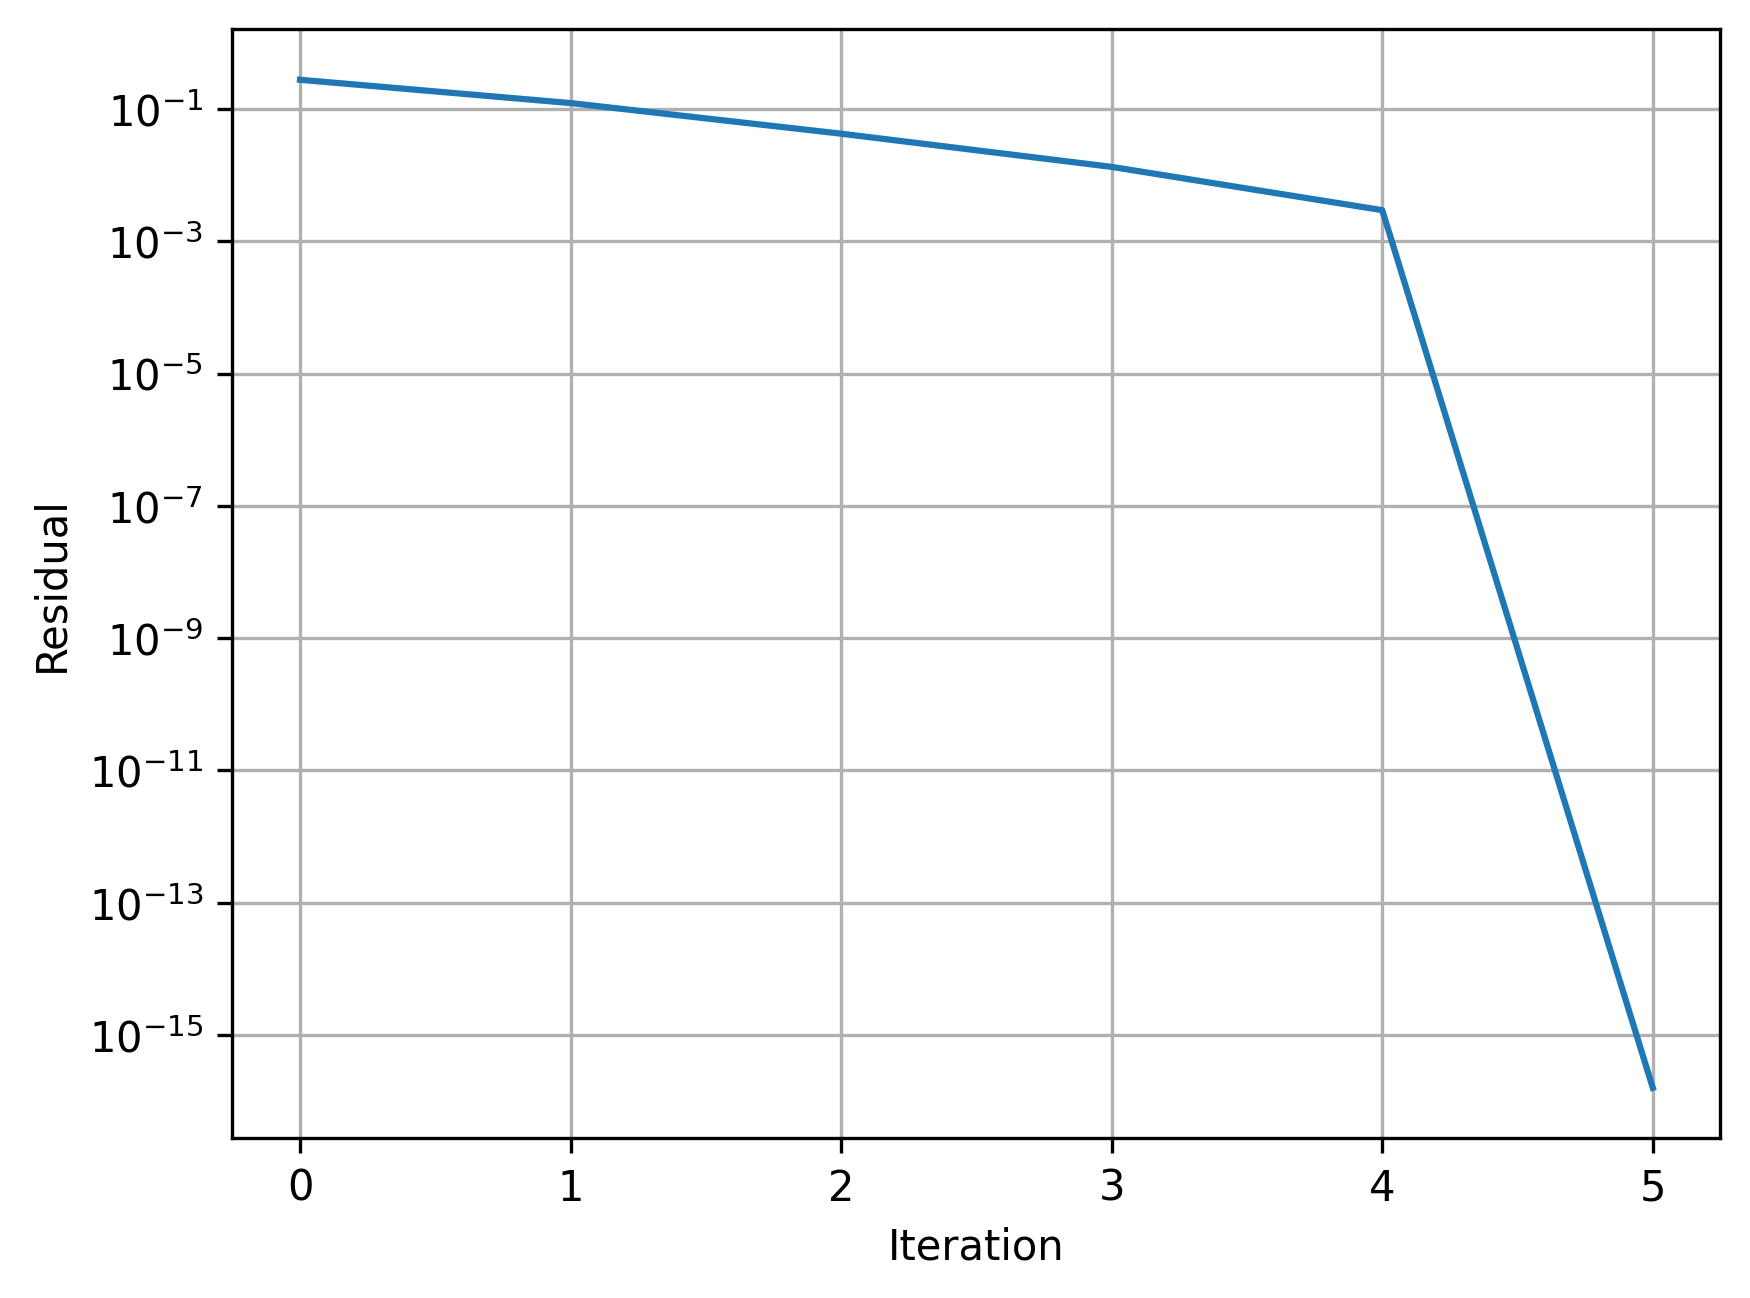
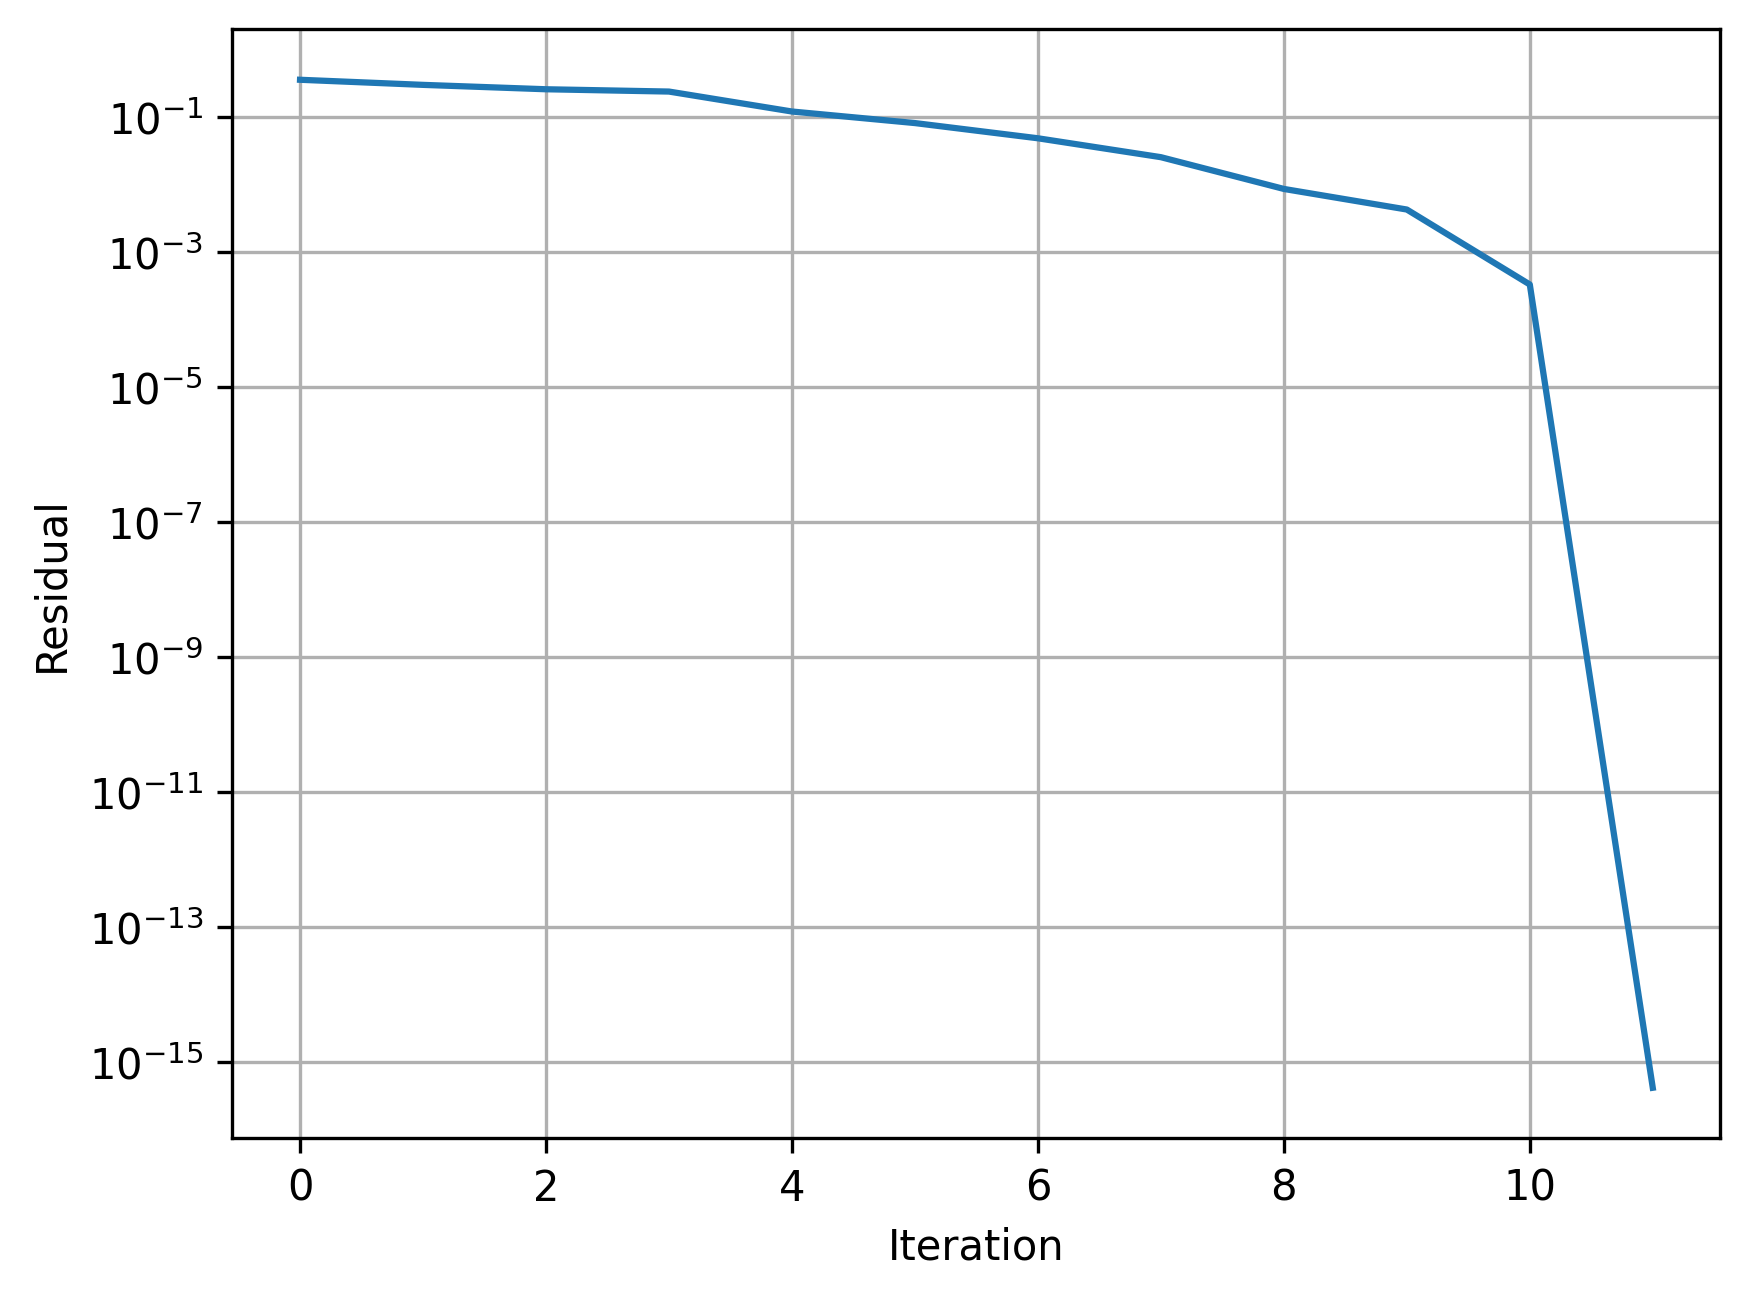
fixed Bj and tested Rj Bj

diff --git a/project2/main.py b/project2/main.py
@@ -127,11 +127,13 @@ def Aj_matrix(vtxj, eltj, beltj_phys, kappa):
     return Aj
 
 
-def Bj_matrix(nv_loc, belt_artf):
+def Bj_matrix(nx, ny, j, J, belt_artf):
     """
     Maps the local nodes (Omega_j) to the artificial interface (Sigma_j).
     Returns a matrix of size (nbelt_art x nv_loc).
     """
+    ny_loc = (ny - 1) // J + 1
+    nv_loc = nx * ny_loc
     # Number of nodes on the artificial interface
     # belt_artf contains pair of vertices, so we extract unique nodes
     interface_nodes = np.unique(belt_artf)
@@ -183,15 +185,15 @@ if __name__ == "__main__":
     np.random.seed(1234)
     Lx = 1
     Ly = 2
-    nx = int(1 + Lx * 2)
-    ny = int(1 + Ly * 2)
+    nx = int(1 + Lx * 3)
+    ny = int(1 + Ly * 4)
 
     vtx_loc, elt_loc = local_mesh(Lx, Ly, nx, ny)
     belt_phys, belt_artf = local_boundary(nx, ny, rank, size)
     #Rj = Rj_matrix(nx, ny, rank, size)
     #Bj = Bj_matrix(nx, ny, rank, size, belt_artf)
-    #j = Cj_matrix(nx, ny, rank, size)
-    #print(f"[Rank {rank}] " f"Vertices: {belt_artf.shape[0]}, "f"tot vtx: {nx * ny}, Cj = \n{Cj.todense()}")
+    Cj = Cj_matrix(nx, ny, rank, size)
+    print(f"[Rank {rank}] " f"Vertices: {belt_artf.shape[0]}, "f"tot vtx: {nx * ny}, Bj = \n{Cj.todense()}")
     belt = belt_phys
 
     print()
